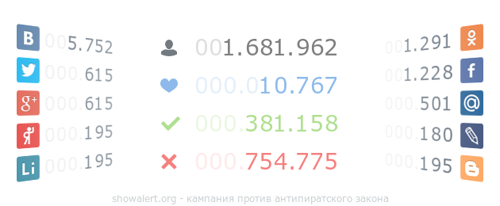
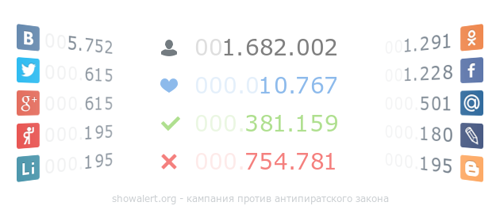
update statistics files for plugins

Changed region(s): [[0.54, 0.1748, 0.66, 0.2913], [0.6, 0.7282, 0.69, 0.8447], [0.63, 0.5825, 0.69, 0.6408]]

diff --git a/votes.js b/votes.js
@@ -1,1 +1,1 @@
-window.lk.votes(32714)
+window.lk.votes(32716)
